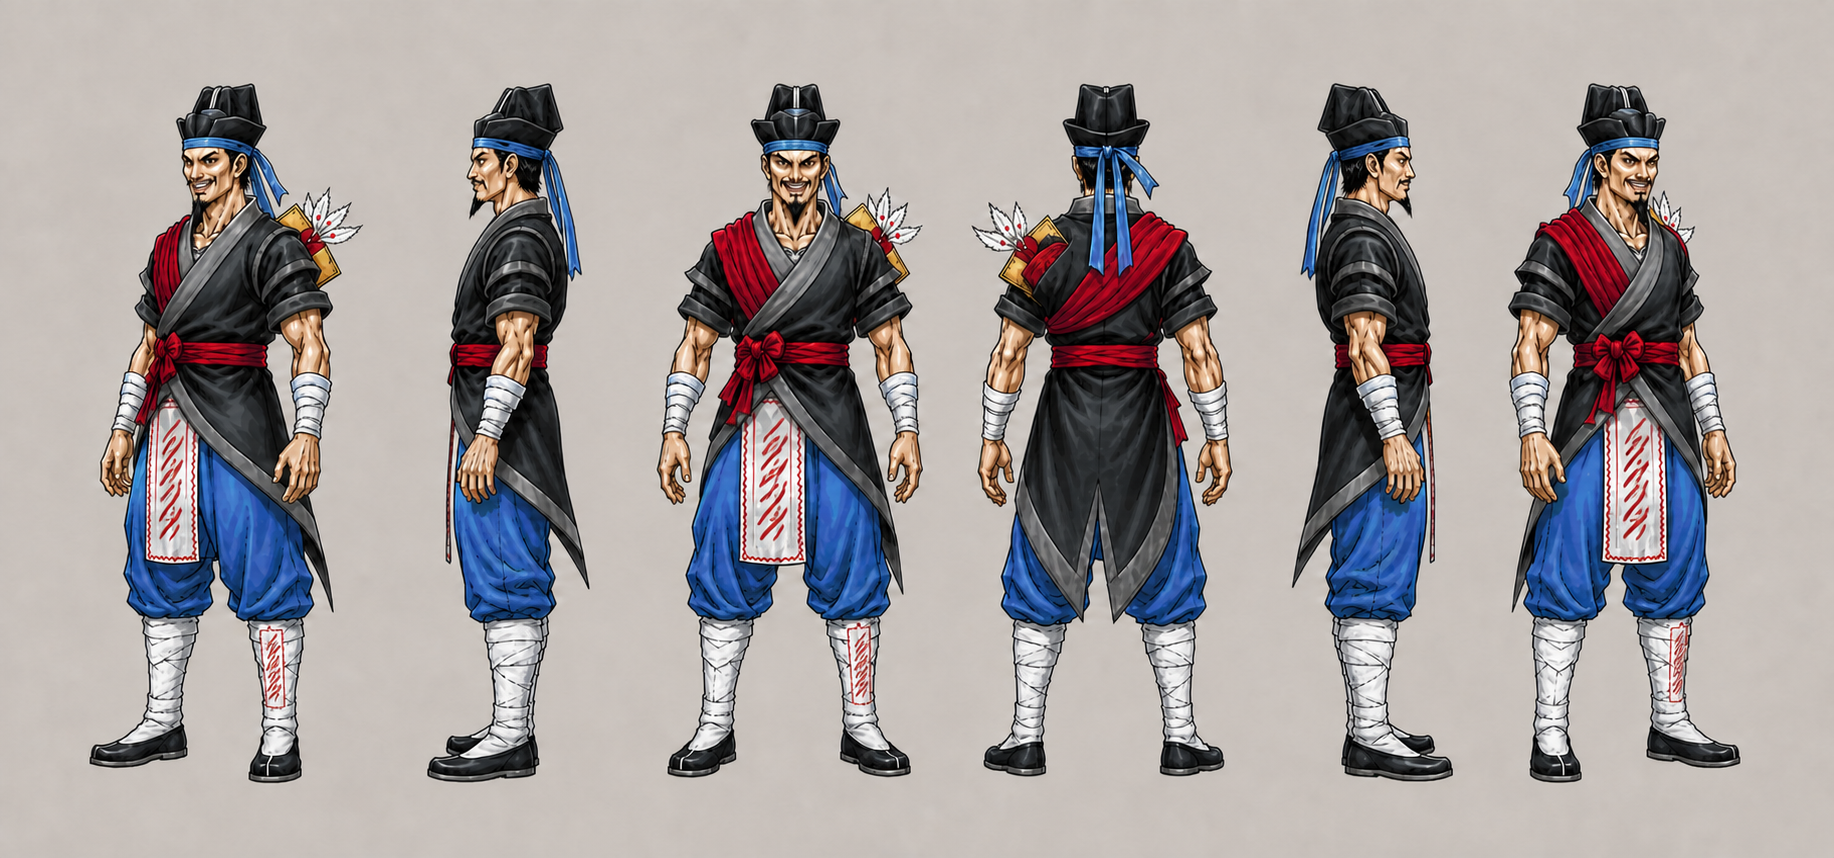
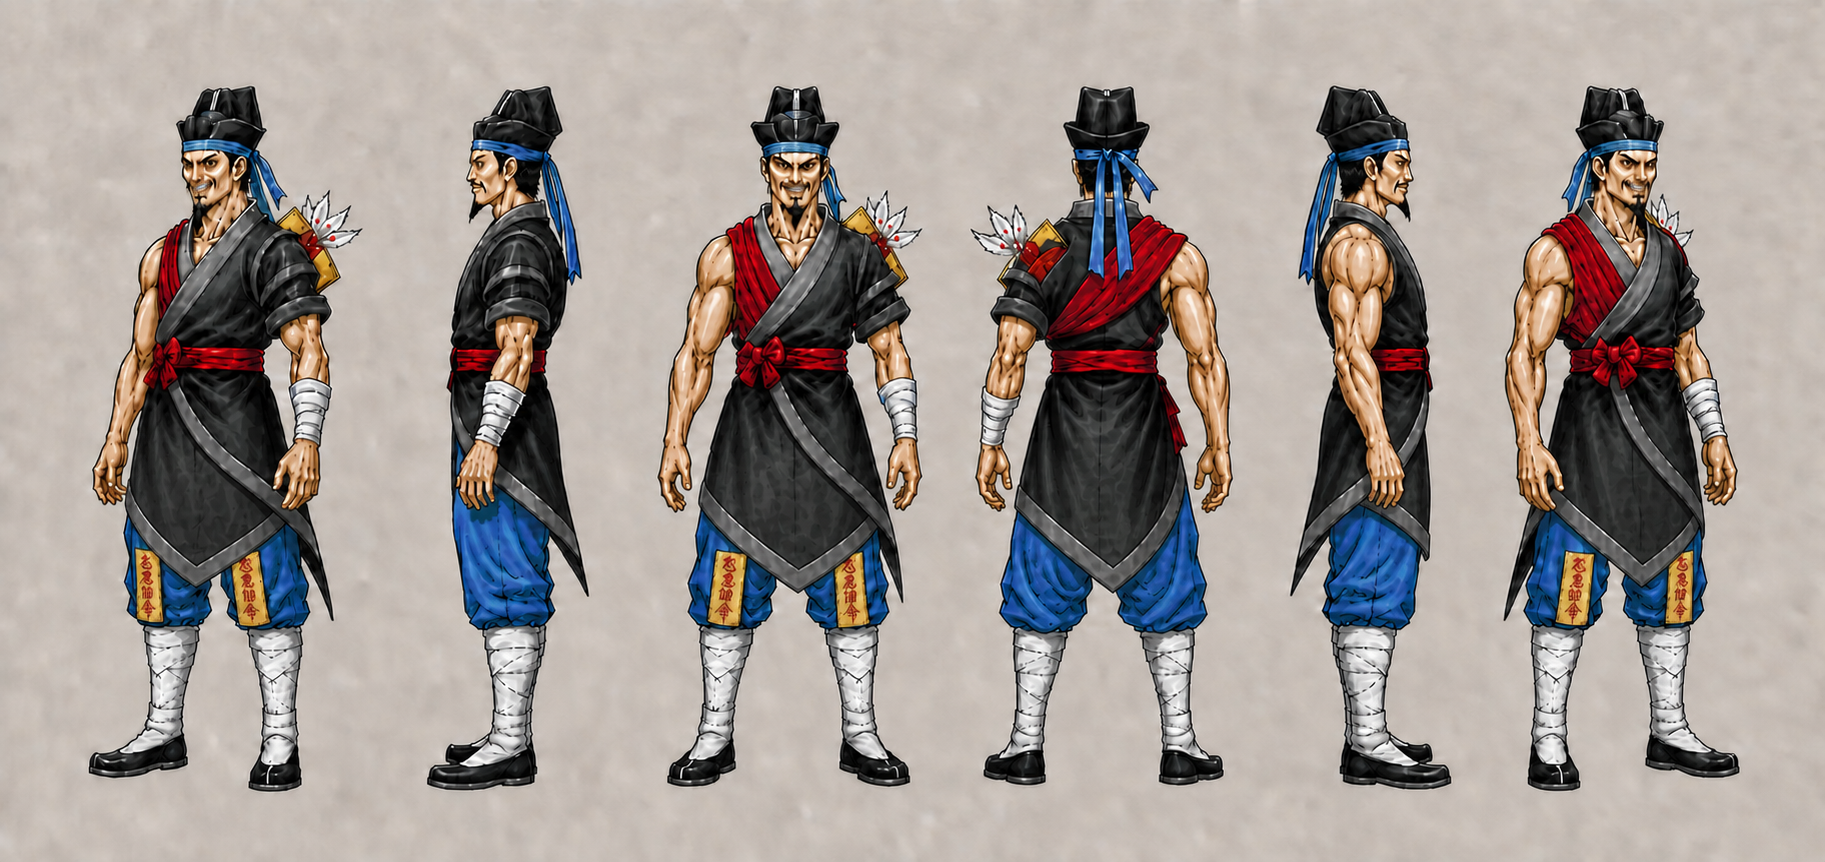
fix(角色020): 定稿服装细节与六视图
修正左右袖与绷带锚点、裆部裙摆和双膝符纸设计。\n\n采用用户选定的长裙摆六视图，保留历次返修版本并同步清单批准状态。

Changed region(s): [[0.3436, 0.0909, 0.9682, 0.9394], [0.0312, 0.0909, 0.2186, 0.9394], [0.2186, 0.0909, 0.3436, 0.9394]]

diff --git a/character-model-sheets/characters/020/review-notes.md b/character-model-sheets/characters/020/review-notes.md
@@ -1,6 +1,6 @@
 # 020 新版六视图生产复核
 
-- 状态：`generated`，人物六视图与所需独立实体均已生成并通过全量复核；未标记为 `approved`。
+- 状态：`approved`，用户已明确选择所附长裙摆版本作为 020 人物六视图主图。
 - 需交付：人物六视图；武器／标志道具。
 
 ## 人物六视图
@@ -10,6 +10,11 @@
 - [x] 六个全身视角同高、同基线、无裁切，身份、服装、纹样和配色一致。
 - [x] 非对称结构固定在同一解剖侧与三维连接点，远侧按真实关系遮挡。
 - [x] 未见多余肢体、重复实体、融合道具、透视冲突、文字乱码或场景残留。
+- [x] 角色自身左肩有黑色短袖，角色自身右肩与右臂无袖；六视图均不换边。
+- [x] 只有角色自身左前臂有白色绷带，角色自身右臂无绷带；六视图均不换边。
+- [x] 裆部正前方没有白色裙摆、围裙或垂布。
+- [x] 黑色袍服本体的前、侧、后裙统一延伸到大腿下段、接近膝部但不遮挡膝部符纸；没有白色独立垂片。
+- [x] 两个膝盖各贴一张偏黄色纸符，红色竖排符文为“急急如律令”。
 
 ## 独立实体
 
@@ -21,3 +26,8 @@
 
 - 背面、远侧、内部与遮挡结构继续按 `inferred` 或 `unknown` 处理，不宣称为原作事实。
 - 旧版资产已保留为递增版本文件；当前主文件将用于新版交付。
+- 2026-08-21 用户确认整体风格正确，并提出以上四项定向返修；本轮只改人物设定图，武器表保持不变。
+- 2026-08-21 已完成三轮局部返修与放大复核；旧主图备份为 `character-turnaround-v2.png`，新主图保持 `generated` 等待用户批准。
+- 2026-08-21 第二轮用户反馈：黑色前裙仍偏短，应至少覆盖裆部；白色独立垂片继续保持不存在。
+- 2026-08-21 已完成前裙长度定向返修：前襟在大腿最上段收束，不接近膝符；上一版主图备份为 `character-turnaround-v3.png`。
+- 2026-08-21 用户提供并选定长裙摆版本作为正式主图；替换前的短裙摆主图备份为 `character-turnaround-v4.png`。
